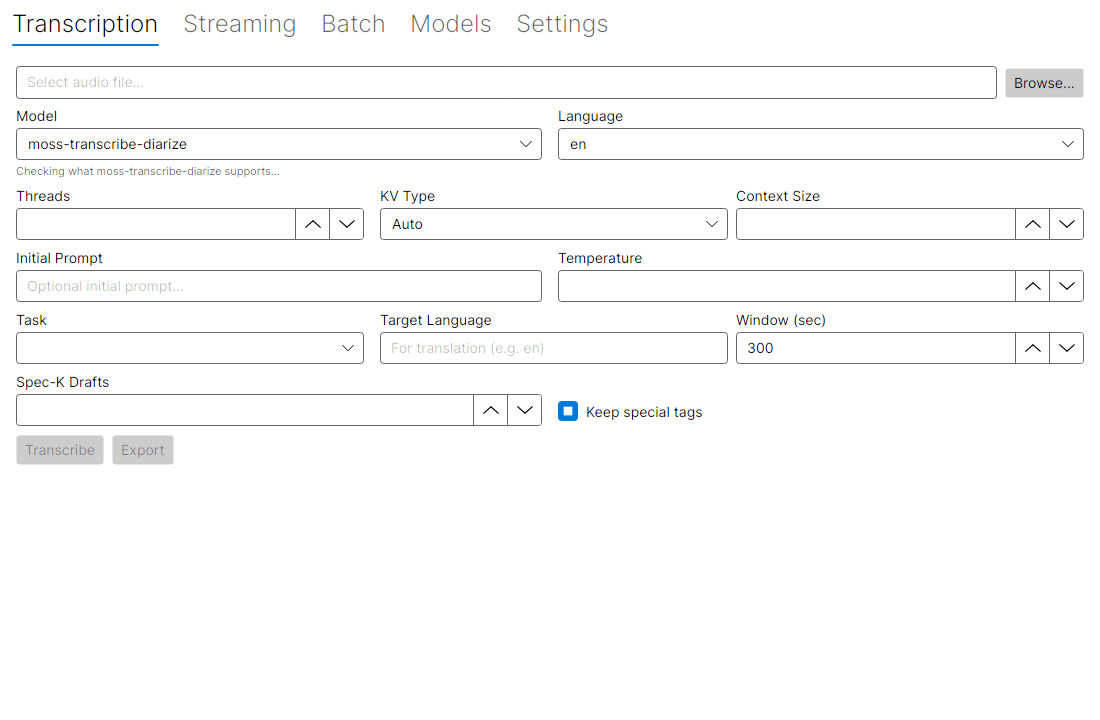
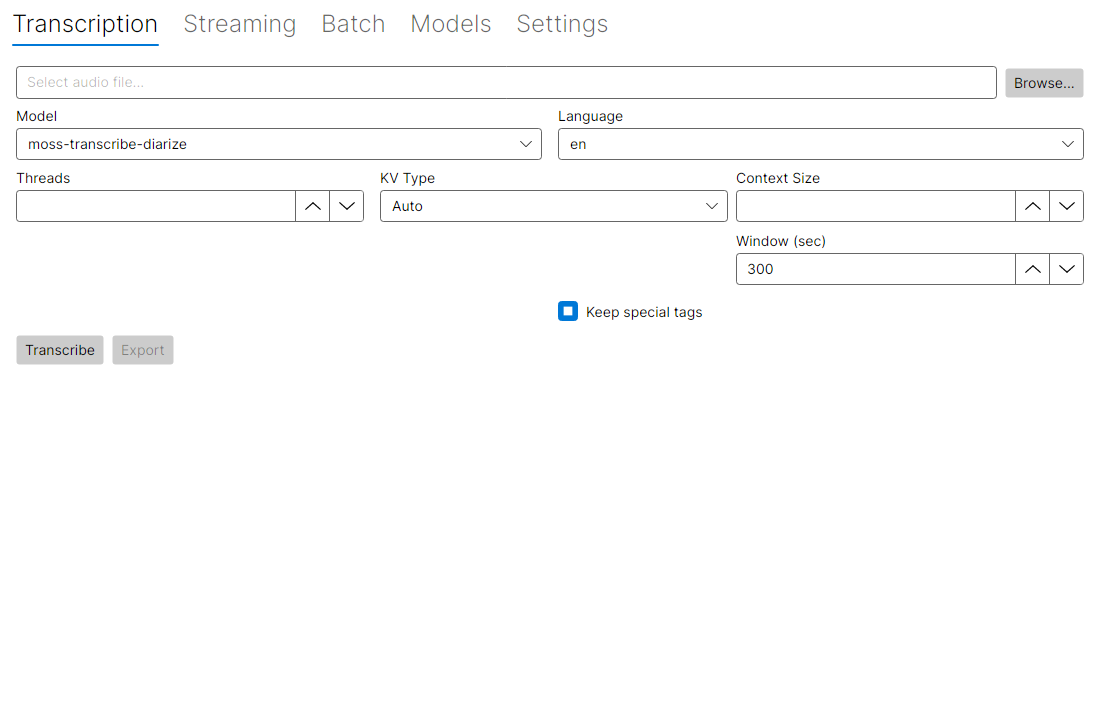
Show the language the picker holds instead of an empty box
The dynamic-language change merged in a7025b9 emptied the language list
while the view was bound, and left the picker rendering nothing with a
valid value in the view model. The screenshot generator caught it on the
first run: the Transcription tab showed Language blank.

Root cause, arrived at by measuring rather than reasoning:

- It removed the ten-code initializer, so AvailableLanguages is empty
  when the window's DataContext is set. The picker cannot match
  Language = "en" against a list with no "en" in it, so it drops its own
  selection to SelectedIndex -1 and shows nothing.
- When the probe then answered, it rebuilt the list and Language was
  still "en" — still valid — so `Contains(Language)` was true, no
  assignment ran, and no property change fired. A binding that already
  believes it wrote a value does not write it again, so the control was
  never told.

Fixes tried and measured, so the commit does not leave a trail of guesses:

1. OnPropertyChanged(nameof(Language)) with the value unchanged —
   rejected. Diag showed the event firing ("evt Language changed ->
   'en'") with combo.SelectedItem still empty. The binding short-circuits
   on its own recorded value, and the control had changed behind its back.
2. Clearing Language to string.Empty and restoring it — worked, but only
   as insurance against (3), which is the real fix.
3. Seeding AddFallbackLanguages() in the constructor before the probe,
[…]

diff --git a/tests/TranscribeCppSharp.Ui.Tests/LanguagePickerTests.cs b/tests/TranscribeCppSharp.Ui.Tests/LanguagePickerTests.cs
@@ -1,0 +1,157 @@
+using Avalonia.Automation;
+using Avalonia.Controls;
+using Avalonia.Headless.XUnit;
+using Avalonia.LogicalTree;
+using TranscribeCppSharp.Interop;
+using TranscribeCppSharp.Models;
+using TranscribeCppSharp.Ui.Models;
+using TranscribeCppSharp.Ui.Services;
+using TranscribeCppSharp.Ui.ViewModels;
+using TranscribeCppSharp.Ui.Views;
+using Xunit;
+
+// StreamUpdate exists in both TranscribeCppSharp.Interop and
+// TranscribeCppSharp.Ui.Models; the interface returns the Ui one. Task does too:
+// Interop declares a Task enum, so without this alias every Task<> here is ambiguous.
+using StreamUpdate = TranscribeCppSharp.Ui.Models.StreamUpdate;
+using Task = System.Threading.Tasks.Task;
+
+namespace TranscribeCppSharp.Ui.Tests;
+
+/// <summary>
+/// The language picker has to show the language the view model holds.
+/// </summary>
+/// <remarks>
+/// This is a binding that can fail without failing anywhere else. The picker starts
+/// with an empty list, so it cannot match <c>Language</c> and drops its own selection
+/// while the view model keeps the value. When a model report then rebuilds the list,
+/// <c>Language</c> still equals the value it held, so nothing changes and the
+/// short-circuiting binding never writes the control back up: the box rendered blank
+/// with <c>Language</c> reading <c>"en"</c>, which a screenshot of this very tab
+/// caught. Asserting the two sides agree is the only thing that notices.
+/// </remarks>
+public class LanguagePickerTests
+{
+    /// <summary>What the fake model reports it accepts.</summary>
+    private static readonly string[] SupportedLanguages = ["en", "zh"];
+
+    [AvaloniaFact]
+    public void ThePickerShowsTheLanguageTheViewModelHoldsAfterAModelReports()
+    {
+        // Keep the constructor's probe from loading a real model: an empty cache
+        // means nothing is on disk and no download happens.
+        string? previous = ModelStore.CacheRootOverride;
+        ModelStore.CacheRootOverride = Path.Combine(
+            Path.GetTempPath(), "tcsharp-ui-tests-language-cache");
+        try
+        {
+            var viewModel = new TranscriptionViewModel(
+                new StubTranscriptionService(), new SettingsViewModel());
+            var view = new TranscriptionView { DataContext = viewModel };
+            var window = new Window { Content = view, Width = 1100, Height = 720 };
+            window.Show();
+
+            var combo = view.GetLogicalDescendants()
+                .OfType<ComboBox>()
+                .First(c => AutomationProperties.GetAutomationId(c) == "transcription-language");
+
+            // Before the model answers, the fallback list is what is offered.
+            Assert.Equal("en", viewModel.Language);
+            Assert.Equal("en", combo.SelectedItem);
+
+            // The model answers: the list is rebuilt under a picker that is already
+            // bound, and the current language stays valid for it.
+            viewModel.ApplyCapabilities(new ModelCapabilitySnapshot(
+                Architecture: "test",
+                Variant: "test",
+                SupportsTranslate: false,
+                SupportsLanguageDetect: false,
+                SupportsStreaming: false,
+                SupportsSpecDecode: false,
+                Features: new HashSet<Feature>(),
+                Languages: SupportedLanguages,
+                TranslateTargetLanguages: Array.Empty<string>()));
+
+            Assert.Equal(SupportedLanguages, viewModel.AvailableLanguages);
+            Assert.Equal("en", viewModel.Language);
+
+            // The assertion that matters: the two sides must agree. Clear() drops the
+            // picker's selection, and nothing re-pushes a Language whose value never
+            // changed, so without that push the box rendered blank with "en" sitting
+            // in the view model — a control showing nothing while a correct value was
+            // right there.
+            Assert.Equal("en", combo.SelectedItem);
+            Assert.Equal(0, combo.SelectedIndex);
+        }
+        finally
+        {
+            ModelStore.CacheRootOverride = previous;
+        }
+    }
+
+    [AvaloniaFact]
+    public void ALanguageOutsideTheNewListIsReplacedNotKept()
+    {
+        string? previous = ModelStore.CacheRootOverride;
+        ModelStore.CacheRootOverride = Path.Combine(
+            Path.GetTempPath(), "tcsharp-ui-tests-language-cache");
+        try
+        {
+            var viewModel = new TranscriptionViewModel(
+                new StubTranscriptionService(), new SettingsViewModel());
+            var view = new TranscriptionView { DataContext = viewModel };
+            var window = new Window { Content = view, Width = 1100, Height = 720 };
+            window.Show();
+
+            var combo = view.GetLogicalDescendants()
+                .OfType<ComboBox>()
+                .First(c => AutomationProperties.GetAutomationId(c) == "transcription-language");
+
+            // "ko" is in the fallback list, so it can be picked; the model does not
+            // offer it. Keeping it would be offering a language the model rejected —
+            // the very thing this list was made dynamic to stop.
+            viewModel.Language = "ko";
+            Assert.Equal("ko", combo.SelectedItem);
+
+            viewModel.ApplyCapabilities(new ModelCapabilitySnapshot(
+                Architecture: "test",
+                Variant: "test",
+                SupportsTranslate: false,
+                SupportsLanguageDetect: false,
+                SupportsStreaming: false,
+                SupportsSpecDecode: false,
+                Features: new HashSet<Feature>(),
+                Languages: SupportedLanguages,
+                TranslateTargetLanguages: Array.Empty<string>()));
+
+            Assert.Equal("en", viewModel.Language);
+            Assert.Equal("en", combo.SelectedItem);
+        }
+        finally
+        {
+            ModelStore.CacheRootOverride = previous;
+        }
+    }
+
+    /// <summary>Needs to exist; nothing here transcribes.</summary>
+    private sealed class StubTranscriptionService : ITranscriptionService
+    {
+        public Task<TranscriptionResult> TranscribeAsync(
+            string audioPath, string modelPath, TranscriptionOptions options,
+            IProgress<double>? progress = null, CancellationToken cancellationToken = default)
+            => throw new NotSupportedException();
+
+        public async IAsyncEnumerable<StreamUpdate> StreamTranscribeAsync(
+            string modelPath, StreamOptions options,
+            [System.Runtime.CompilerServices.EnumeratorCancellation] CancellationToken cancellationToken = default)
+        {
+            await Task.CompletedTask;
+            yield break;
+        }
+
+        public Task<List<BatchItemResult>> BatchTranscribeAsync(
+            IReadOnlyList<string> audioPaths, string modelPath, TranscriptionOptions options,
+            IProgress<int>? progress = null, CancellationToken cancellationToken = default)
+            => throw new NotSupportedException();
+    }
+}

diff --git a/src/TranscribeCppSharp.Ui/ViewModels/TranscriptionViewModel.cs b/src/TranscribeCppSharp.Ui/ViewModels/TranscriptionViewModel.cs
@@ -1,7 +1,6 @@
 using System.Collections.ObjectModel;
 using CommunityToolkit.Mvvm.ComponentModel;
 using CommunityToolkit.Mvvm.Input;
-using TranscribeCppSharp;
 using TranscribeCppSharp.Audio;
 using TranscribeCppSharp.Interop;
 using TranscribeCppSharp.Models;
@@ -62,10 +61,10 @@ public partial class TranscriptionViewModel : ObservableObject
     private ObservableCollection<MergedSegment> _segments = new();
 
     [ObservableProperty]
-    private ObservableCollection<TranscribeCppSharp.WordResult> _words = new();
+    private ObservableCollection<WordResult> _words = new();
 
     [ObservableProperty]
-    private ObservableCollection<TranscribeCppSharp.SpeakerSegmentResult> _speakerSegments = new();
+    private ObservableCollection<SpeakerSegmentResult> _speakerSegments = new();
 
     [ObservableProperty]
     private bool _hasResult;
@@ -148,6 +147,11 @@ public partial class TranscriptionViewModel : ObservableObject
         // The default alias is a fixed one (MOSS, ~700 MB), so this bounds the
         // startup probe to a single known model. It runs off the UI thread; a
         // model that is not on disk is not loaded and the options stay unfiltered.
+        //
+        // The language list is seeded before the probe rather than left empty: the
+        // view is created once the window's DataContext is set, and a picker bound
+        // to an empty list has nothing to match against.
+        AddFallbackLanguages();
         RequestCapabilityProbe(ModelAlias);
     }
 
@@ -243,7 +247,15 @@ public partial class TranscriptionViewModel : ObservableObject
         }
     }
 
-    private void ApplyCapabilities(ModelCapabilitySnapshot? capabilities)
+    /// <summary>
+    /// Applies what a probe reported, including rebuilding the language list.
+    /// </summary>
+    /// <remarks>
+    /// Internal rather than private so the tests can hand it a model report without
+    /// downloading one: that is the path where the lists change while the view is
+    /// already bound, which is the one the constructor cannot reproduce.
+    /// </remarks>
+    internal void ApplyCapabilities(ModelCapabilitySnapshot? capabilities)
     {
         _selectedCapabilities = capabilities;
         OnPropertyChanged(nameof(ShowWhisperExtensions));
@@ -252,21 +264,25 @@ public partial class TranscriptionViewModel : ObservableObject
         UpdateAvailableLanguages(capabilities);
     }
 
+    /// <summary>
+    /// Rebuilds the language list from what a model reports, or fills the fallback
+    /// when there is nothing to report.
+    /// </summary>
+    /// <remarks>
+    /// The invariant is that the list must never be empty while the view is bound:
+    /// a picker with no items cannot match <c>Language</c>, so it drops its own
+    /// selection, and once it is empty in the view model too the assignment below
+    /// cannot repair a control it never re-pushes to. The constructor seeds the
+    /// fallback before the window's DataContext is set for exactly that reason; this
+    /// method clears and refills it, and the selection it drops writes back an empty
+    /// value, which is what makes <see cref="Language"/> fire again.
+    /// </remarks>
     private void UpdateAvailableLanguages(ModelCapabilitySnapshot? capabilities)
     {
         AvailableLanguages.Clear();
         if (capabilities == null)
         {
-            AvailableLanguages.Add("en");
-            AvailableLanguages.Add("fr");
-            AvailableLanguages.Add("de");
-            AvailableLanguages.Add("es");
-            AvailableLanguages.Add("it");
-            AvailableLanguages.Add("pt");
-            AvailableLanguages.Add("ru");
-            AvailableLanguages.Add("zh");
-            AvailableLanguages.Add("ja");
-            AvailableLanguages.Add("ko");
+            AddFallbackLanguages();
             return;
         }
 
@@ -289,6 +305,29 @@ public partial class TranscriptionViewModel : ObservableObject
         {
             Language = AvailableLanguages.First();
         }
+    }
+
+    /// <summary>
+    /// The languages offered before a model has answered.
+    /// </summary>
+    /// <remarks>
+    /// Called twice: once in the constructor, so the picker has items before the
+    /// window's DataContext is set, and again when a model cannot be probed — not
+    /// downloaded, or the probe failed. It is a fixed list because nothing has said
+    /// otherwise yet; once a model reports, its own languages replace it.
+    /// </remarks>
+    private void AddFallbackLanguages()
+    {
+        AvailableLanguages.Add("en");
+        AvailableLanguages.Add("fr");
+        AvailableLanguages.Add("de");
+        AvailableLanguages.Add("es");
+        AvailableLanguages.Add("it");
+        AvailableLanguages.Add("pt");
+        AvailableLanguages.Add("ru");
+        AvailableLanguages.Add("zh");
+        AvailableLanguages.Add("ja");
+        AvailableLanguages.Add("ko");
     }
 
     [RelayCommand]
@@ -364,8 +403,8 @@ public partial class TranscriptionViewModel : ObservableObject
 
             FullText = Result.FullText;
             Segments = new ObservableCollection<MergedSegment>(Result.Segments);
-            Words = new ObservableCollection<TranscribeCppSharp.WordResult>(Result.Words);
-            SpeakerSegments = new ObservableCollection<TranscribeCppSharp.SpeakerSegmentResult>(Result.SpeakerSegments);
+            Words = new ObservableCollection<WordResult>(Result.Words);
+            SpeakerSegments = new ObservableCollection<SpeakerSegmentResult>(Result.SpeakerSegments);
             HasResult = true;
             StatusMessage = "Transcription complete.";
         }

diff --git a/samples/UiScreenshot/Program.cs b/samples/UiScreenshot/Program.cs
@@ -72,10 +72,22 @@ internal static class Program
 
         window.Show();
 
+        // Wait for the startup capability probes before the first frame. Without
+        // this the picture is taken mid-load: on a machine where the default model
+        // is already downloaded, the language picker is still empty because the
+        // list only arrives once the model has answered. Settled is the honest
+        // state to show, and a transient blank field would not be.
+        if (!SettleProbes(window, models))
+        {
+            Console.Error.WriteLine(
+                "warning: capability probes still running after " + ProbeTimeout +
+                "; capturing the window as it is.");
+        }
+
         foreach (string tab in Tabs)
         {
             models.SelectedTabIndex = Array.IndexOf(Tabs, tab);
-            Settle(window);
+            Layout(window);
 
             string path = Path.Combine(outputDirectory, $"ui-{tab}.png");
             WriteableBitmap? frame = window.CaptureRenderedFrame();
@@ -91,15 +103,52 @@ internal static class Program
         lifetime.Shutdown();
     }
 
+    /// <summary>How long to wait for the model probes before giving up.</summary>
+    private static readonly TimeSpan ProbeTimeout = TimeSpan.FromSeconds(60);
+
     /// <summary>
-    /// Lets the tab change be laid out before the frame is taken.
+    /// Pumps the dispatcher until both tabs have finished reading what their model
+    /// can do.
+    /// </summary>
+    /// <returns>True when they finished, false when <see cref="ProbeTimeout"/> ran out.</returns>
+    /// <remarks>
+    /// The probes load the model on a worker thread and post back to the UI thread,
+    /// so this has to sleep between pumps: an empty loop would starve the load. The
+    /// dispatcher is never left to run on its own, because nothing here drives a
+    /// message loop.
+    /// </remarks>
+    private static bool SettleProbes(Window window, MainWindowViewModel models)
+    {
+        var deadline = DateTime.UtcNow + ProbeTimeout;
+        do
+        {
+            Layout(window);
+            if (!IsProbing(models))
+            {
+                return true;
+            }
+
+            Thread.Sleep(50);
+        }
+        while (DateTime.UtcNow < deadline);
+
+        Layout(window);
+        return !IsProbing(models);
+    }
+
+    private static bool IsProbing(MainWindowViewModel models)
+        => models.Transcription.IsCheckingCapabilities
+            || models.Streaming.IsCheckingCapabilities;
+
+    /// <summary>
+    /// Lets a change be laid out before the frame is taken.
     /// </summary>
     /// <remarks>
     /// Setting SelectedTabIndex and capturing in one pass photographs the previous
     /// tab: the binding has not been through a layout yet. Draining the dispatcher
     /// and then measuring is what makes the new tab the thing in the picture.
     /// </remarks>
-    private static void Settle(Window window)
+    private static void Layout(Window window)
     {
         Dispatcher.UIThread.RunJobs();
         window.UpdateLayout();

diff --git a/docs/ui.md b/docs/ui.md
@@ -62,7 +62,7 @@ is decoded with `ffmpeg`, which has to be installed and on `PATH` — see
 | Setting | Default | Notes |
 |---|---|---|
 | Model | the CLI's default alias | Downloaded on first use and cached |
-| Language | `en` | The code the model *assumes* the audio is in. The picker offers ten codes; only Whisper-family models detect the language themselves |
+| Language | `en`, then whatever the model allows | Before the model is probed, the picker falls back to ten codes (`en`, `fr`, `de`, `es`, `it`, `pt`, `ru`, `zh`, `ja`, `ko`). Once a model has been probed the list is what *it* declares, with `auto` added when it reports language detection, and `auto` means no language is passed at all so the model decides for itself. If the current choice is not in the new list, the picker takes the first entry instead of keeping an unavailable one |
 | Threads | library default | Left empty on purpose. This is not a benchmarked recommendation — raising it past the core count usually makes it slower |
 | KV type | Auto | `F32` keeps the most precision and the most memory; `F16` halves the cache |
 | Context size | model maximum | Lower uses less memory; too low truncates long passages |
@@ -179,6 +179,10 @@ Two consequences worth knowing:
   picker says why. Hiding an option on a guess would hide one that would have worked.
 - **The probe loads on the CPU**, so checking a model's capabilities does not take the GPU
   away from a run already using it.
+
+The language picker works the same way: ten codes stand in while nothing has been probed,
+and a probed model replaces that list with the languages it actually reports. The UI used to
+offer languages a model could not handle, and no way to ask for auto-detection at all.
 
 Capabilities are cached per alias for the session.
 
